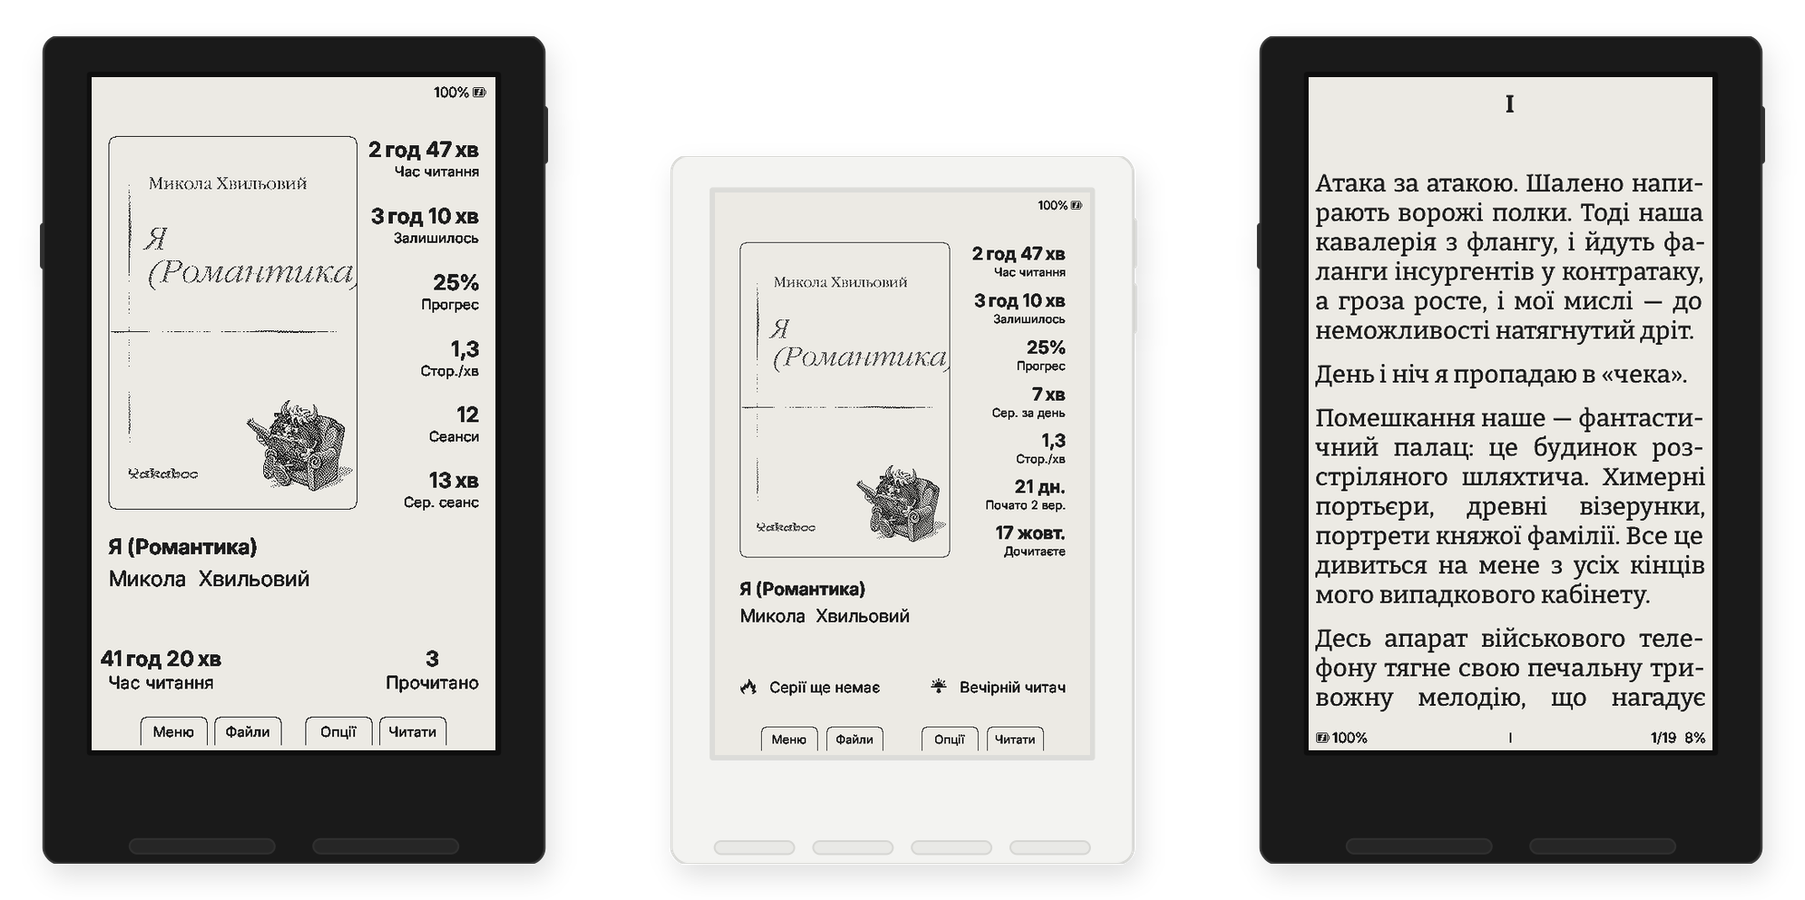
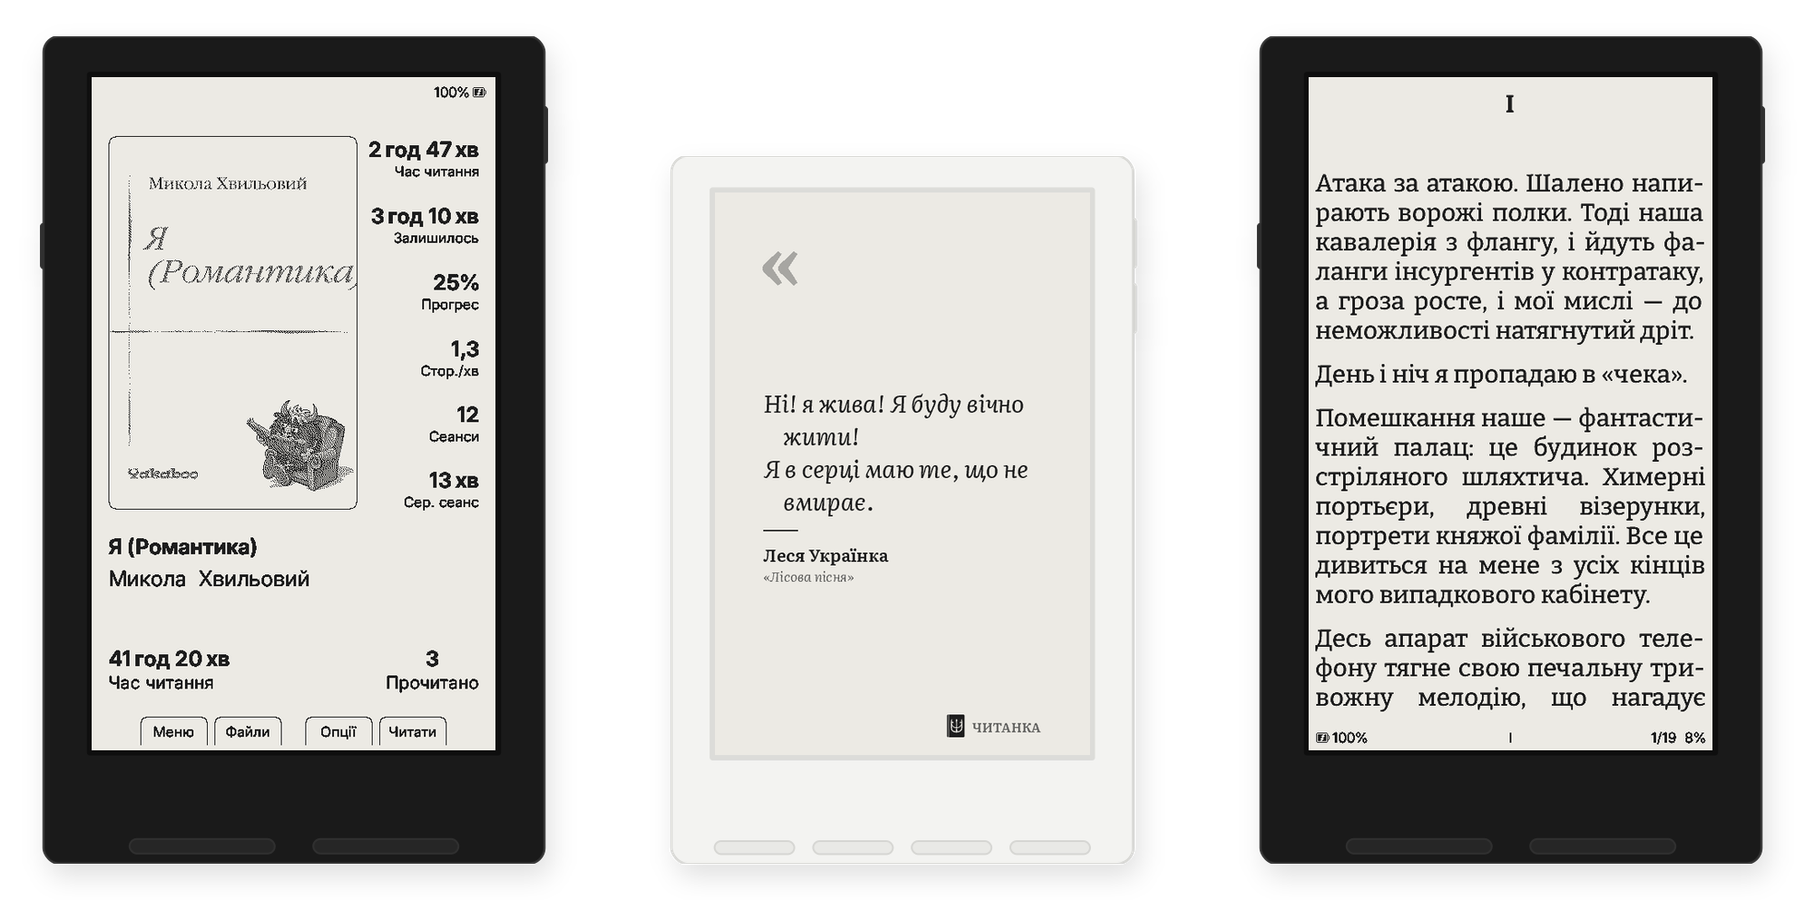
docs: free books section and lock-screen quote in hero

diff --git a/README.md b/README.md
@@ -12,7 +12,7 @@
 
 <img src="docs/chytanka/assets/hero.png" alt="Читанка на Xteink X4 і X3" width="820">
 
-[Що всередині](#що-всередині) · [Екрани](#екрани) · [Цитати](#цитати-на-екрані-сну) · [Встановлення](#встановлення) · [Збірка](#збірка-з-вихідного-коду) · [English](#english)
+[Що всередині](#що-всередині) · [Екрани](#екрани) · [Цитати](#цитати-на-екрані-сну) · [Безкоштовні книжки](#безкоштовні-книжки) · [Встановлення](#встановлення) · [Збірка](#збірка-з-вихідного-коду) · [English](#english)
 
 </div>
 
@@ -28,6 +28,7 @@
 - 🇺🇦 **Інтерфейс повністю українською.** Перекладено всі 922 рядки, без англійських «дірок». Одиниці часу (`12 год 55 хв`), десяткова кома, назви місяців. Довгі слова не вилазять за межі кнопок і колонок.
 - ✂ **Правильні українські переноси.** Виправлено переноси слів з великої літери (`Є І Ї Ґ`, зокрема в заголовках КАПСОМ) і слів з апострофом `ʼ` («обʼєднання», «під’-їзд» з дефісом за правописом).
 - 📜 **Цитати української літератури на екрані сну.** 50 карток уже вбудовано в прошивку, повний набір зі 109 можна покласти на SD-картку. Без повторів, темний режим інвертує картку.
+- 📖 **65 безкоштовних книжок української класики** в каталозі OPDS [«Читанка — Книжки»](https://danylor-212.github.io/chytanka-books/): Франко, Леся Українка, Коцюбинський, Хвильовий, Підмогильний, Котляревський та ще три десятки авторів. Завантажуються прямо з читалки через Wi‑Fi.
 - 📚 **Бренд Читанки.** Логотип на екрані завантаження, назва пристрою `Chytanka X4 CrossInk`.
 - 🔄 **Власний канал оновлень.** OTA шукає релізи Читанки, тож оновлення CrossInk не перезапише українську збірку.
 - ⚡ **Легша збірка.** Вшито лише дві мови інтерфейсу (українська й англійська), тож прошивка менша й лишає більше місця.
@@ -72,6 +73,21 @@
 <div align="center">
 <img src="docs/chytanka/assets/x3-quote.png" alt="Цитата Шевченка на Xteink X3" width="260">
 </div>
+
+## Безкоштовні книжки
+
+<div align="center">
+<img src="docs/chytanka/assets/opds.png" alt="Каталог «Читанка — Книжки» на читалці: список книжок і обкладинка «Лісової пісні»" width="620">
+</div>
+
+**[«Читанка — Книжки»](https://danylor-212.github.io/chytanka-books/)** — відкритий каталог української класики в суспільному надбанні: **65 книжок** прози, поезії, драми, дитячої літератури та спогадів. «Енеїда», «Лісова пісня», «Тіні забутих предків», «Захар Беркут», «Чорна рада», «Місто», «Сині етюди», «Камена», «Мартин Боруля» та інші.
+
+- **Прямо з читалки.** Каталог працює за стандартом OPDS: *Головна → Меню → Каталог OPDS → «Читанка — Книжки»*, вибираєте книжку, і вона завантажується по Wi‑Fi в бібліотеку. У наступному оновленні прошивки каталог уже вбудований; зараз його можна додати вручну за адресою нижче.
+- **Адреса OPDS:** `https://danylor-212.github.io/chytanka-books/opds/index.xml` — підходить і для інших читалок та застосунків з OPDS (KOReader, PocketBook, Moon+ Reader, Thorium).
+- **Якісні EPUB.** Тексти — з вичитаних за сканами видань на [uk.wikisource.org](https://uk.wikisource.org), здебільшого 1920‑х років, з правописом, близьким до сучасного. Кожна книжка має обкладинку в стилі Читанки, сторінку «Про це видання» з джерелом і проходить перевірку [EPUBCheck](https://github.com/w3c/epubcheck).
+- **Легкі файли.** Зайві вбудовані шрифти вирізано: книжки важать 40 КБ – 1 МБ замість 4–5 МБ.
+- **Чесно щодо прав.** Усі автори померли до 1954 року. Редакторські примітки й ілюстрації, права на які не підтверджені, прибрано; шар Вікіджерел — за CC BY-SA 4.0.
+- **Оновлюється сам.** Каталог перебудовується щотижня з Вікіджерел, тож виправлення волонтерів підтягуються автоматично. Код і список книжок — у [danylor-212/chytanka-books](https://github.com/danylor-212/chytanka-books); пропозиції нових творів вітаються.
 
 ## Встановлення
 
@@ -122,6 +138,7 @@ pio run -e ua -t upload       # прошити підключений прист
 - **A complete Ukrainian UI.** All 922 strings are translated, with localised durations, decimal comma and dates, and layout fixes so longer words fit.
 - **Correct Ukrainian hyphenation:** capital `Є І Ї Ґ` letters and the `ʼ` apostrophe (being prepared as an upstream contribution to CrossPoint).
 - **Ukrainian literature on the sleep screen.** 50 compressed cards are built into the firmware, and the full set of 109 can go on the SD card. Every quote was checked word for word against its source text, and all authors are public domain.
+- **65 free public-domain Ukrainian classics** in the [«Читанка — Книжки»](https://danylor-212.github.io/chytanka-books/) OPDS catalogue (`https://danylor-212.github.io/chytanka-books/opds/index.xml`), downloadable over Wi‑Fi straight from the reader and usable in any OPDS app.
 - **Chytanka branding and its own OTA channel**, so a CrossInk update can't replace it.
 - **UK + EN built-in** for a smaller image.
 
